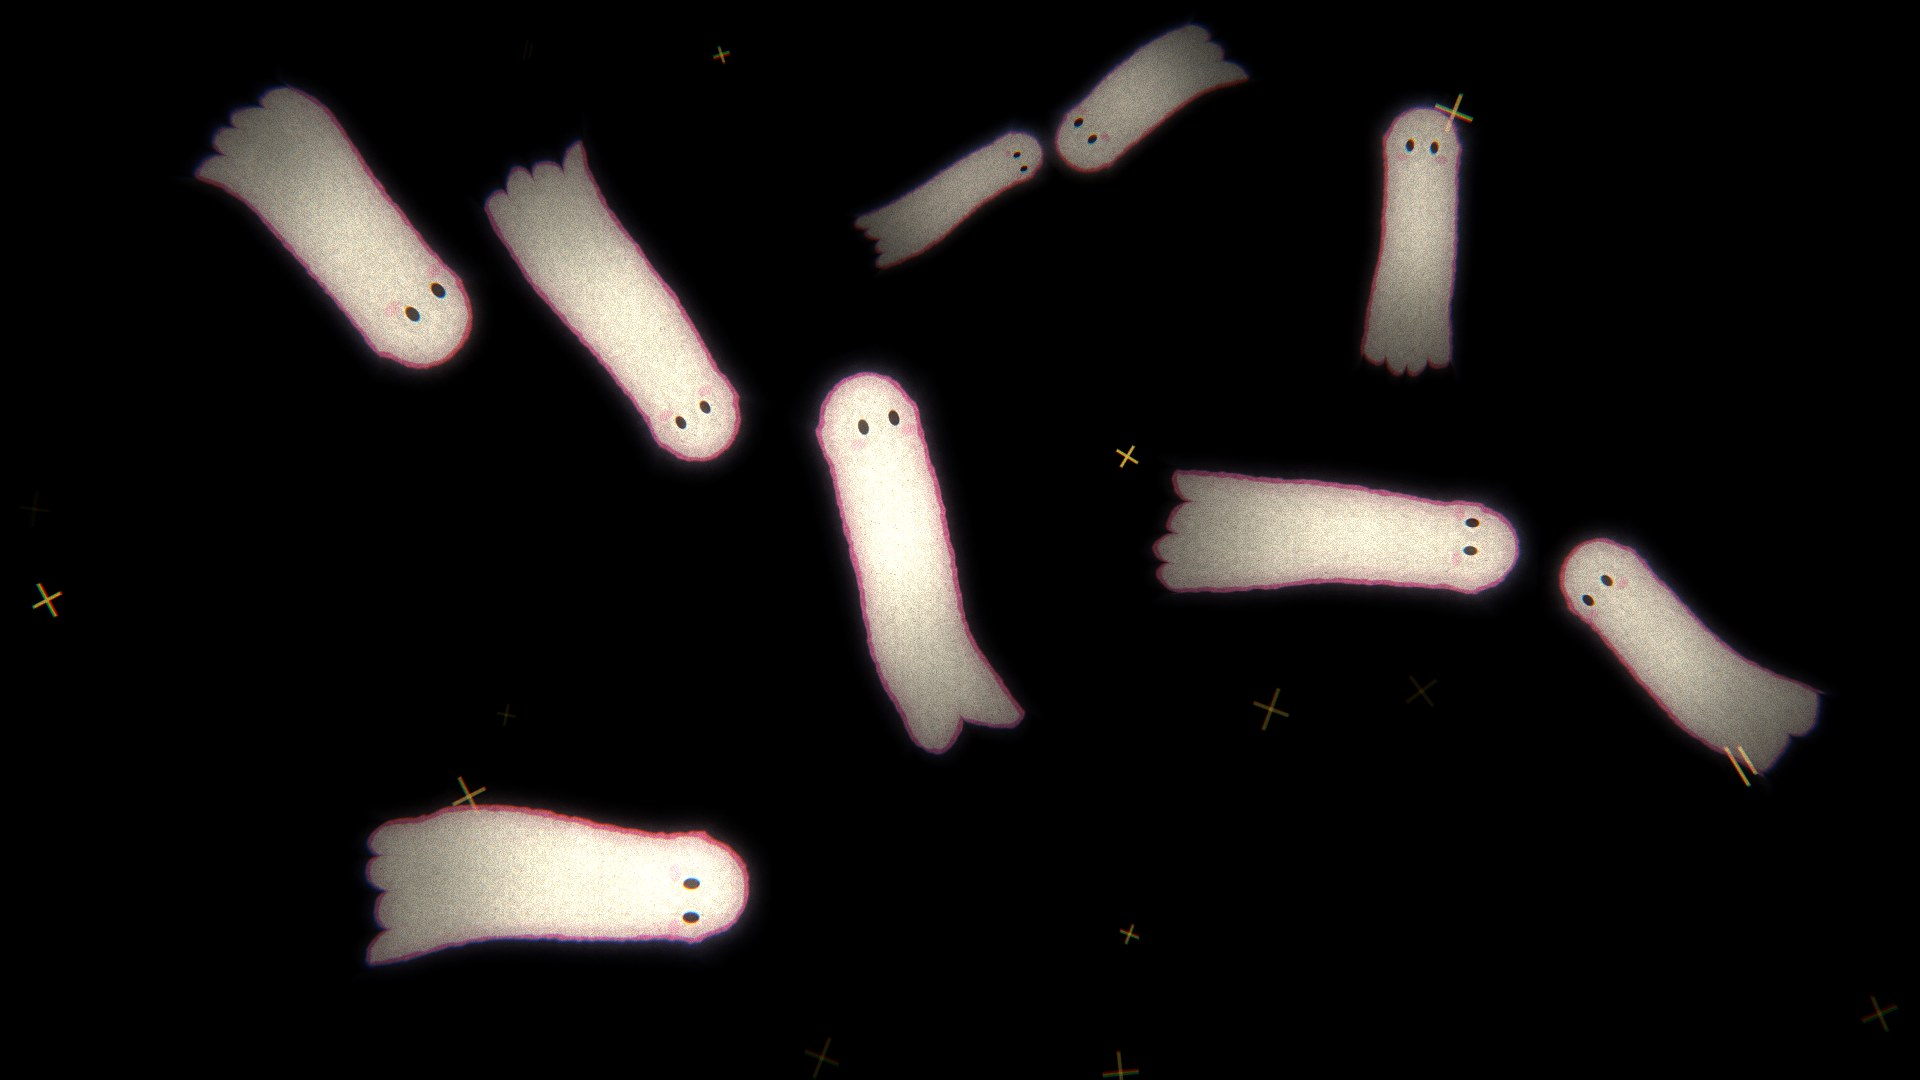
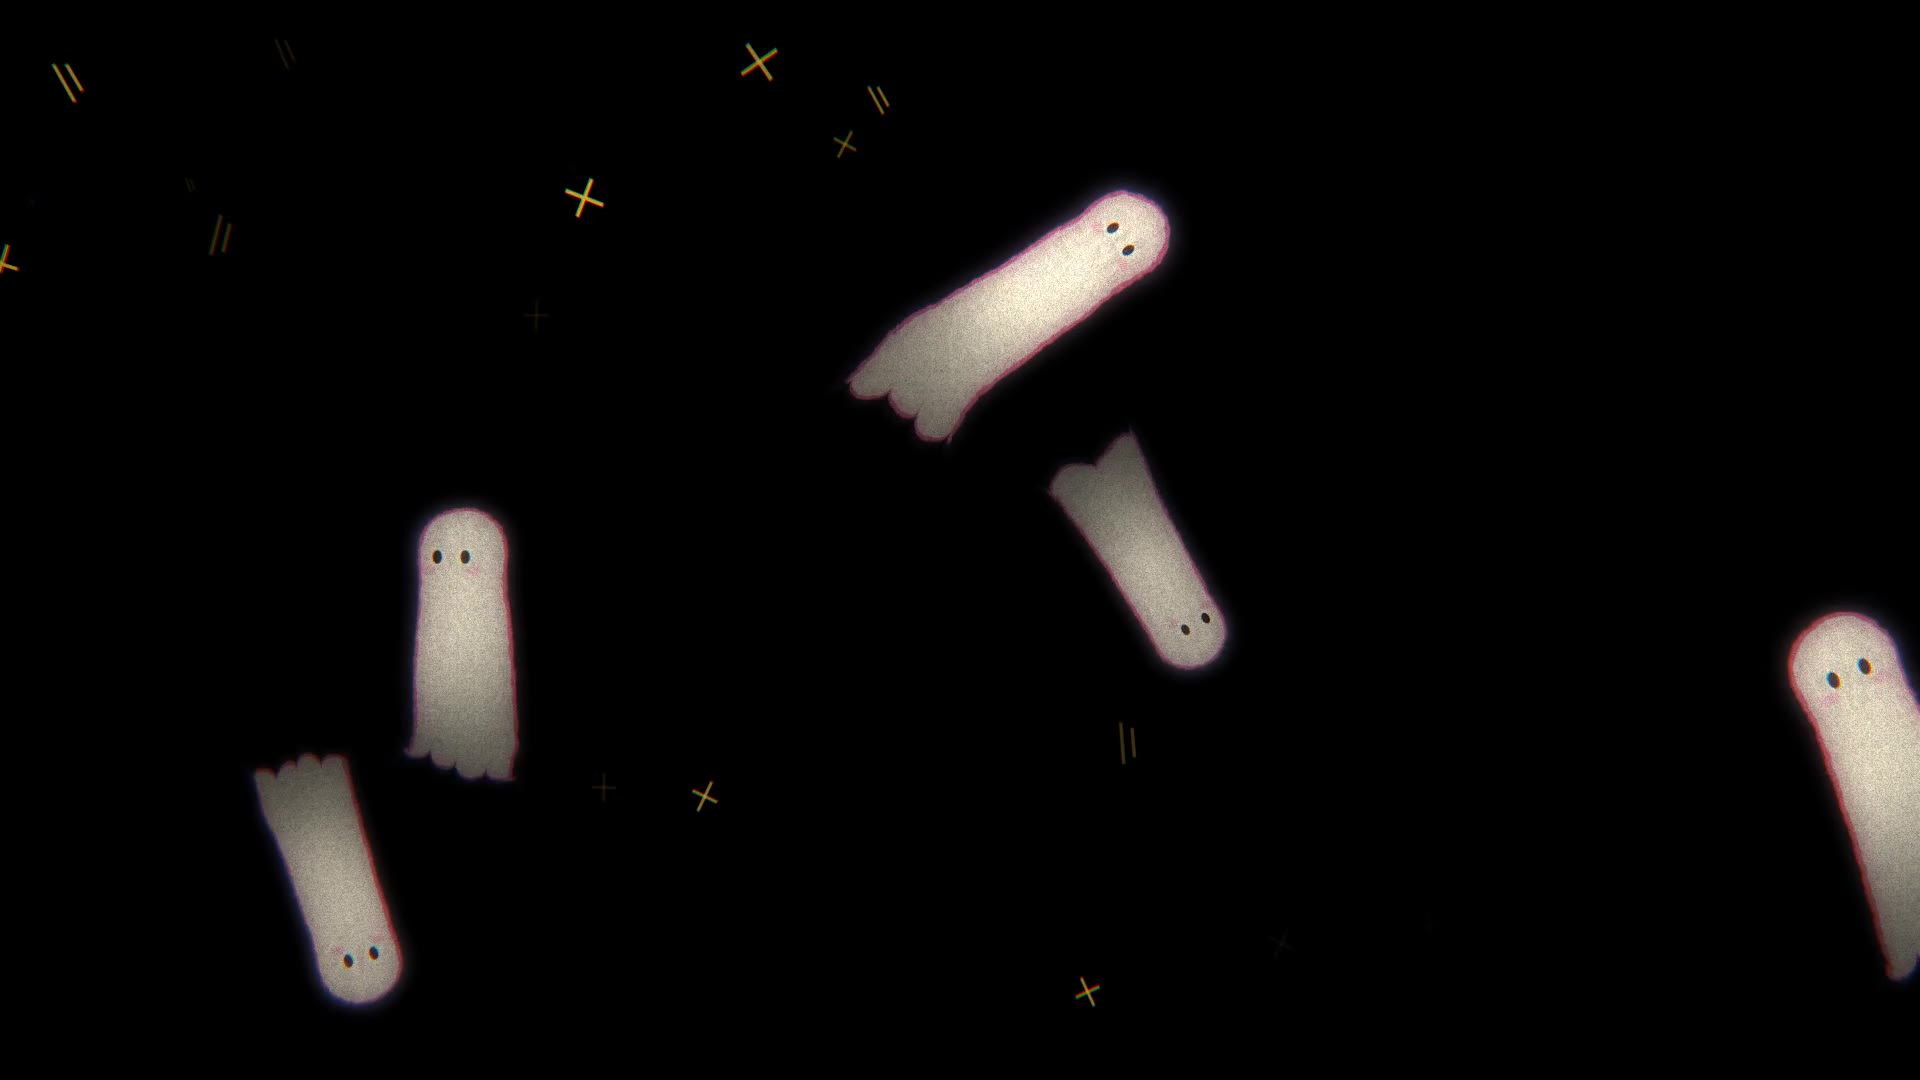
Head leads, body follows as simulated cloth; ghosts materialize and dissolve
The body is now a verlet chain trailing the head (inertia, bending stiffness,
air flutter) drawn as a tapered tube in the shader. The head turns into
curves ahead of the body. Each ghost fades in with a smoky dissolve, lives
18-40 s, dissolves, and is replaced elsewhere.

Claude-Session: https://claude.ai/code/session_01B687QLB42LSy9tzbchE4aa

diff --git a/README.md b/README.md
@@ -1,8 +1,9 @@
 # Ghosts
 
 A Godot 4 app for a projector: pitch-black fullscreen with chalky, softly glowing
-ghosts drifting around. Everything is drawn by shaders, so there are no sprite
-images to manage, and the lower half of each ghost moves like slow-motion cloth.
+ghosts that materialize, drift around and dissolve again. The head leads and the
+body follows like slow-motion cloth. Everything is drawn by shaders, so there are
+no sprite images to manage.
 
 ![screenshot](docs/screenshot.jpg)
 
@@ -37,21 +38,16 @@ export templates the first time.
 | --- | --- |
 | `shaders/ghost.gdshader` | Draws one ghost: chalk body, pink rim, eyes, blush, scalloped hem. The cloth motion lives here. |
 | `shaders/spooky_screen.gdshader` | Full-screen filter: bloom, film grain, chromatic fringe, projector flicker, vignette. Darks are clamped to true black so the projector shows nothing between ghosts. |
-| `scripts/ghost.gd` | Slow noise-driven wandering. The head leads, the tail bends against turns, and the ghost blinks and glances around. |
-| `scripts/main.gd` | Spawns ghosts, keeps them apart, handles keys and screens. |
+| `scripts/ghost.gd` | Slow noise-driven wandering. The head leads and turns into curves; the body is a chain simulated like cloth (inertia, bending stiffness, air flutter) so it trails with follow-through. Each ghost materializes, lives 18–40 s, then dissolves. |
+| `scripts/main.gd` | Keeps 5 ghosts around (a new one appears a few seconds after one dissolves), keeps them apart, handles keys and screens. |
 | `scripts/sparkles.gd` | Twinkling gold chalk crosses. |
-| `ghost_preview.tscn` | One big ghost, for tuning the shader live in the editor. |
 
 ### Tuning the look
 
-Open `ghost_preview.tscn`, select **Ghost**, and play with the shader parameters
-in the Inspector. The useful ones are `cloth_amount`, `cloth_speed`, `flare`,
-`scallops`, `tail_fade`, `glow`, and the colours. To change every ghost, edit the
-default values at the top of `shaders/ghost.gdshader` or the random ranges in
-`scripts/ghost.gd`.
+The cloth feel is set at the top of `scripts/ghost.gd`: `stiffness`,
+`neck_stiffness`, `keep_velocity` (more = more swing and follow-through) and
+`flutter`.
 
-### Using painted ghost images instead
-
-Put PNGs (one upright ghost per image, head at the top, transparent background)
-in a `ghost_images/` folder. About half the ghosts will use them, with the same
-cloth motion and spooky filter applied.
+The look is set by the defaults at the top of `shaders/ghost.gdshader`
+(`cloth_amount`, `cloth_speed`, `flare`, `scallops`, `tail_fade`, `glow`, colours)
+and the random ranges in `setup()` in `scripts/ghost.gd`.
